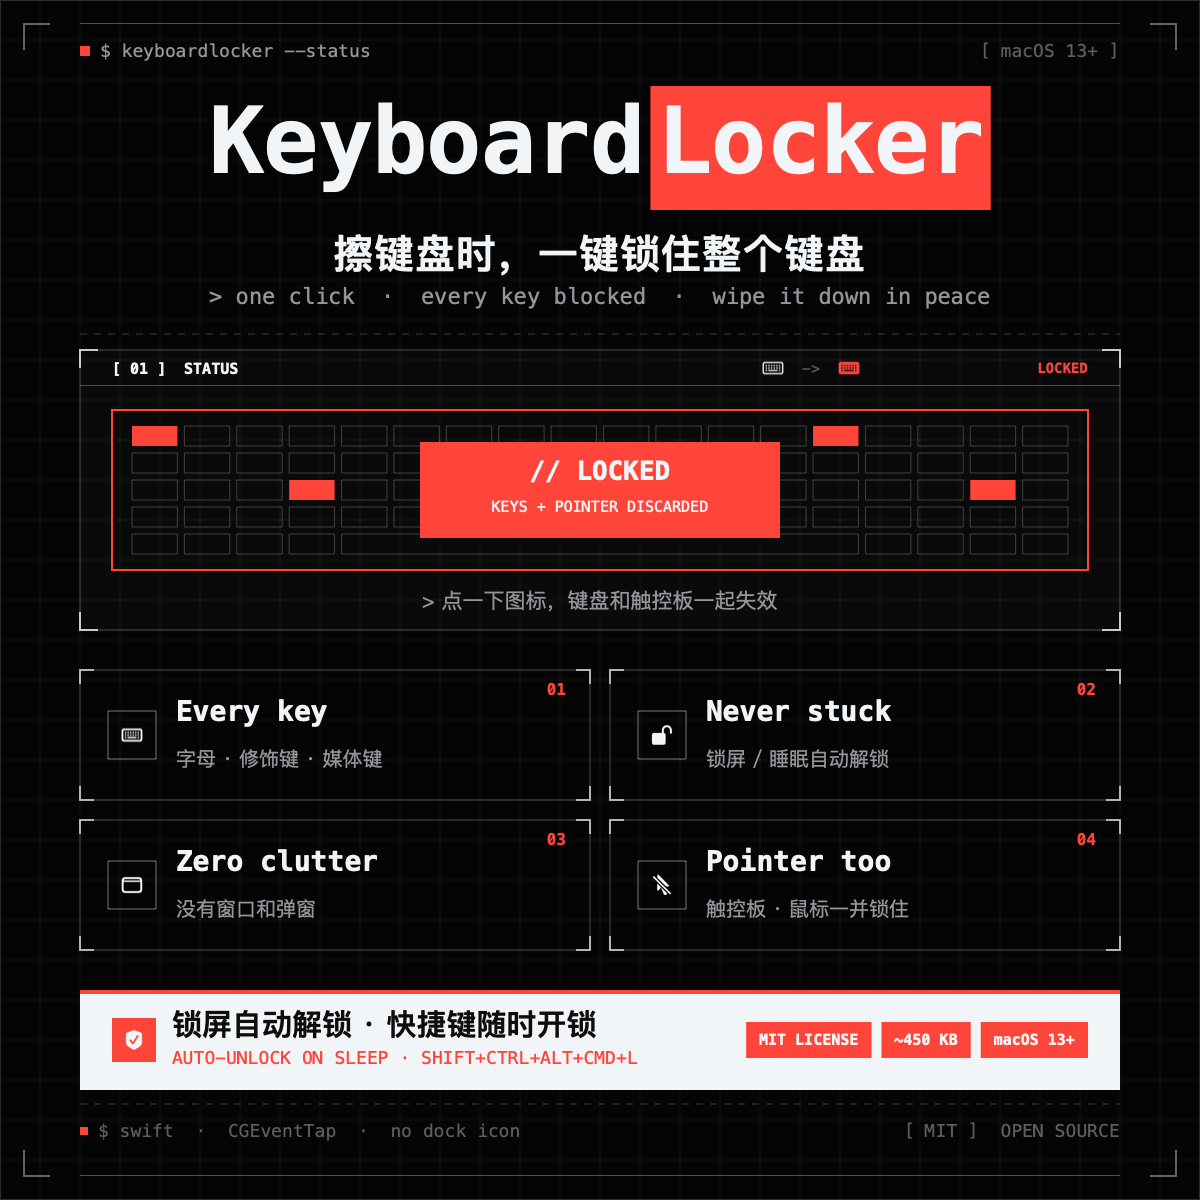
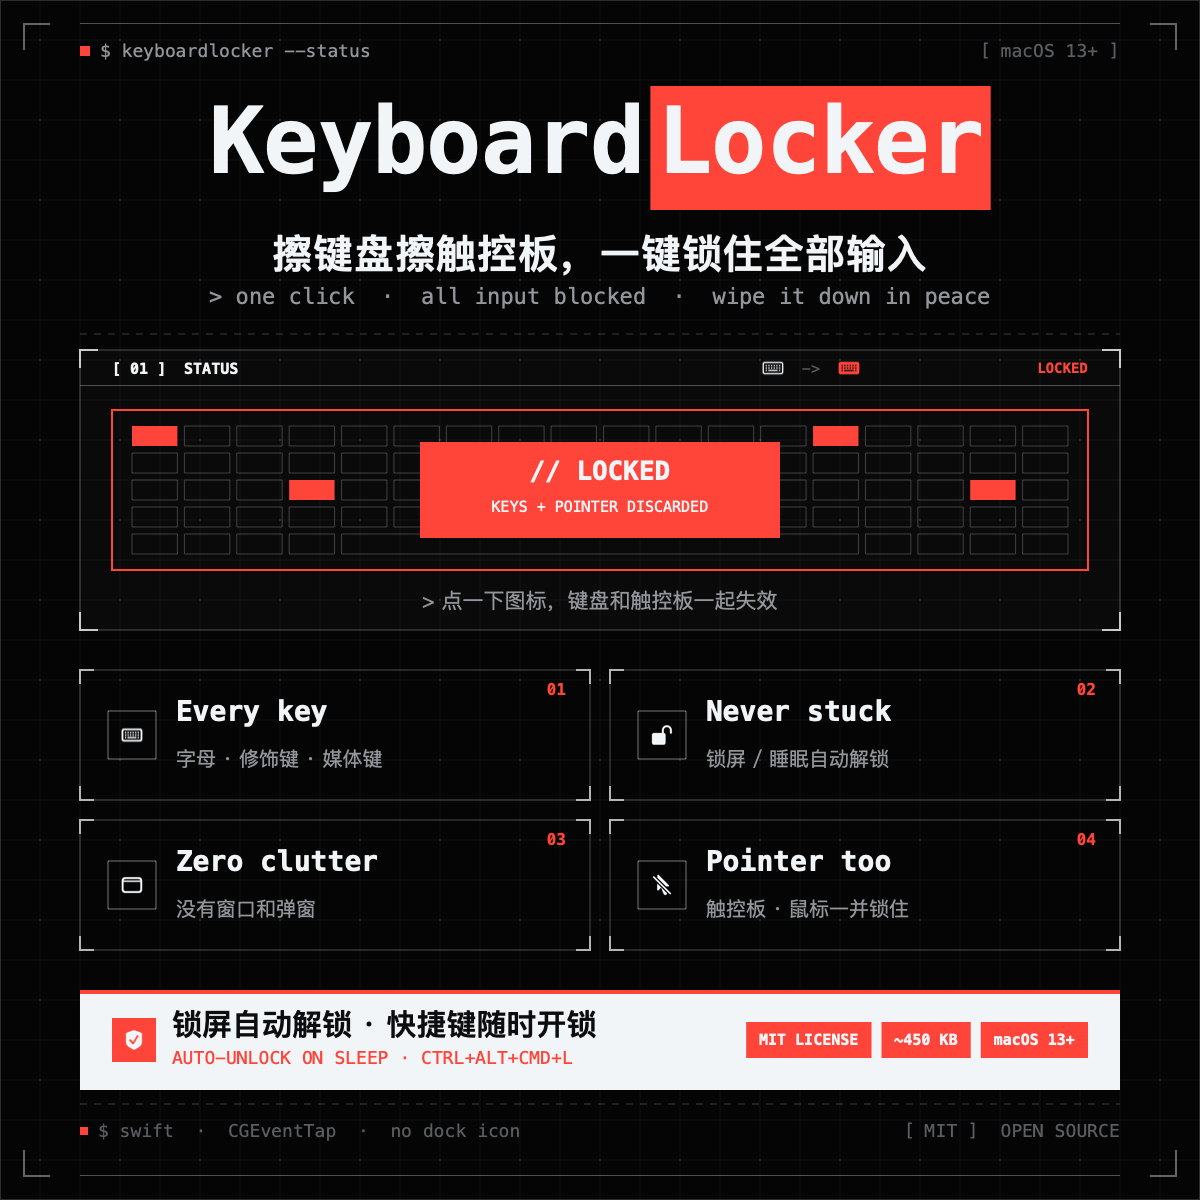
Use ctrl+option+command+L as the unlock shortcut

Changed region(s): [[0.2158, 0.185, 0.7708, 0.2775], [0.3392, 0.8633, 0.5242, 0.8942]]

diff --git a/Sources/KeyboardLockEngine.swift b/Sources/KeyboardLockEngine.swift
@@ -10,7 +10,7 @@ import Foundation
 ///   因此系统快捷键（⌘Tab、⌘Q、⌘⌥⎋ 等）同样会被拦下。
 /// - 键盘和指针一起拦：光标移动、点击、拖拽、滚轮全部吞掉，擦触控板时不会把光标甩出去、
 ///   也不会误点到别的窗口。代价是锁定期间菜单栏图标点不动，所以必须留一条纯键盘的出路。
-/// - 紧急解锁手势在吞事件之前判定：⇧⌃⌥⌘L 立刻解锁，或按住 Esc 两秒。
+/// - 紧急解锁手势在吞事件之前判定：⌃⌥⌘L 立刻解锁，或按住 Esc 两秒。
 /// - 进程退出后 tap 自动失效，输入立刻恢复 —— 这是最关键的兜底。
 final class KeyboardLockEngine {
 
@@ -39,10 +39,10 @@ final class KeyboardLockEngine {
         CGEventType(rawValue: CGEventType.RawValue($0))
     }
 
-    /// ⇧⌃⌥⌘ + L。用物理键位 37（ANSI L），与键盘布局无关。
+    /// ⌃⌥⌘ + L。用物理键位 37（ANSI L），与键盘布局无关。
     static let unlockKeyCode: CGKeyCode = 37
     static let unlockFlags: CGEventFlags = [
-        .maskShift, .maskControl, .maskAlternate, .maskCommand,
+        .maskControl, .maskAlternate, .maskCommand,
     ]
 
     /// 按住 Esc 两秒也能解锁 —— 组合键不记得时的手动挡。

diff --git a/Tools/make-promo.swift b/Tools/make-promo.swift
@@ -292,11 +292,11 @@ titleSecond.draw(with: CGRect(x: highlightRect.minX + 7, y: titleBox.minY,
                               width: secondWidth + 4, height: titleBox.height),
                  options: [.usesLineFragmentOrigin, .usesFontLeading])
 
-label("擦键盘时，一键锁住整个键盘",
+label("擦键盘擦触控板，一键锁住全部输入",
       CGRect(x: 0, y: 919, width: W, height: 55),
       size: 40, weight: .semibold, color: paper, kern: 1,
       alignment: .center, chinese: true)
-label("> one click  ·  every key blocked  ·  wipe it down in peace",
+label("> one click  ·  all input blocked  ·  wipe it down in peace",
       CGRect(x: 0, y: 880, width: W, height: 36),
       size: 22, color: gray, alignment: .center)
 dashedLine(CGPoint(x: margin, y: 866), CGPoint(x: rightEdge, y: 866))
@@ -442,7 +442,7 @@ let copyLeft = highlightIcon.maxX + 16
 label("锁屏自动解锁 · 快捷键随时开锁",
       CGRect(x: copyLeft, y: 157, width: 500, height: 40),
       size: 30, weight: .semibold, color: onWhite, chinese: true)
-label("AUTO-UNLOCK ON SLEEP · SHIFT+CTRL+ALT+CMD+L",
+label("AUTO-UNLOCK ON SLEEP · CTRL+ALT+CMD+L",
       CGRect(x: copyLeft, y: 125, width: 500, height: 28),
       size: 18, color: red)
 

diff --git a/Sources/SelfTest.swift b/Sources/SelfTest.swift
@@ -72,11 +72,10 @@ enum SelfTest {
             failures.append("光标没有被固定（移动了 \(Int(drift)) pt）")
         }
 
-        // MARK: ③ ⇧⌃⌥⌘L 解锁
-        print("[selftest] ③ 注入 ⇧⌃⌥⌘L…")
-        postFlags([.maskShift])
-        postFlags([.maskShift, .maskControl])
-        postFlags([.maskShift, .maskControl, .maskAlternate])
+        // MARK: ③ ⌃⌥⌘L 解锁
+        print("[selftest] ③ 注入 ⌃⌥⌘L…")
+        postFlags([.maskControl])
+        postFlags([.maskControl, .maskAlternate])
         postFlags(KeyboardLockEngine.unlockFlags)
         postKey(KeyboardLockEngine.unlockKeyCode, down: true,
                 flags: KeyboardLockEngine.unlockFlags)
@@ -86,7 +85,7 @@ enum SelfTest {
 
         print("[selftest]    状态: \(engine.isLocked ? "仍锁定" : "已解锁")")
         if engine.isLocked {
-            failures.append("⇧⌃⌥⌘L 没能解锁")
+            failures.append("⌃⌥⌘L 没能解锁")
         }
 
         // MARK: ④ 按住 Esc 解锁

diff --git a/Sources/AppDelegate.swift b/Sources/AppDelegate.swift
@@ -285,7 +285,7 @@ final class AppDelegate: NSObject, NSApplicationDelegate, NSMenuDelegate {
 
         // 锁定期间鼠标也失效，右键菜单打不开，所以把解锁手势直接写在菜单里
         let hintItem = NSMenuItem(
-            title: "解锁：⇧⌃⌥⌘L · 或按住 Esc 两秒",
+            title: "解锁：⌃⌥⌘L · 或按住 Esc 两秒",
             action: nil,
             keyEquivalent: ""
         )

diff --git a/README.md b/README.md
@@ -52,7 +52,7 @@ Intercepting input events requires system authorization. On first launch the app
 | --- | --- |
 | Left-click the icon | Lock (keyboard + trackpad) |
 | Right-click the icon | Menu (lock, quit) |
-| ⇧⌃⌥⌘L | Unlock |
+| ⌃⌥⌘L | Unlock |
 | Hold Esc for 2 seconds | Unlock (backup) |
 
 While locked every pointer event is dropped, including clicks on the menu bar icon, so unlocking goes through the keyboard. The shortcut uses the physical L key position, so it works on any keyboard layout.
@@ -61,7 +61,7 @@ While locked every pointer event is dropped, including clicks on the menu bar ic
 
 A lock that can't be undone is the worst possible failure mode, so there are several layers:
 
-- **Keyboard-only unlock gestures** — ⇧⌃⌥⌘L releases immediately, and holding Esc for two seconds does the same. Neither needs a mouse
+- **Keyboard-only unlock gestures** — ⌃⌥⌘L releases immediately, and holding Esc for two seconds does the same. Neither needs a mouse
 - **Process exit restores input** — the event tap dies with the process
 - **Screen lock and sleep auto-unlock** — locking the screen, display sleep, or system sleep releases input immediately, so the login password can always be typed
 - **Double detection** — a system notification plus a once-per-second session check; worst case it unlocks within a second
@@ -82,7 +82,7 @@ A lock that can't be undone is the worst possible failure mode, so there are sev
 ./build/KeyboardLocker.app/Contents/MacOS/KeyboardLocker --selftest
 ```
 
-Creates the interceptor, injects 20 synthetic keys and one pointer move, then unlocks with ⇧⌃⌥⌘L and with a held Esc. Prints `PASS` when everything works (exit code 0).
+Creates the interceptor, injects 20 synthetic keys and one pointer move, then unlocks with ⌃⌥⌘L and with a held Esc. Prints `PASS` when everything works (exit code 0).
 
 ## Releasing
 
@@ -118,7 +118,7 @@ The script bumps `CFBundleShortVersionString` / `CFBundleVersion` in a commit, r
 - `KeyboardLockEngine` installs a persistent `CGEventTap` at the `.cghidEventTap` layer — below system shortcut handling, so ⌘Tab and ⌘Q get swallowed too. The tap runs on its own thread's run loop, so a busy main thread can't miss keystrokes.
 - **Keyboard and pointer together**: the mask covers keys, mouse buttons, movement, drags, the scroll wheel and trackpad gestures, and while locked everything is `return nil` — no app receives anything.
 - **Cursor pinned in place**: dropping an event doesn't stop the window server from having already moved the cursor, so every move event that carries a delta is warped back to the lock position with `CGWarpMouseCursorPosition`. Warp-generated events carry a zero delta, which is how the "warp → new event → warp again" loop is avoided. `CGAssociateMouseAndMouseCursorPosition(0)` is deliberately not used: it's global window-server state, and a crashed process would leave the cursor frozen.
-- **Unlock gestures are checked before swallowing**: modifier state is tracked from `flagsChanged` (which is swallowed too while locked), so a `keyDown` for ⇧⌃⌥⌘ + L unlocks first and then discards the key itself.
+- **Unlock gestures are checked before swallowing**: modifier state is tracked from `flagsChanged` (which is swallowed too while locked), so a `keyDown` for ⌃⌥⌘ + L unlocks first and then discards the key itself.
 - Locking flips a mutex-protected flag rather than creating or destroying the tap: no latency, no failure path.
 - When macOS disables the tap after a callback timeout, the callback re-enables it immediately so the keyboard never quietly comes back to life.
 - The menu bar icon is a template mask tinted through CoreGraphics. The red state is baked into a bitmap before it reaches the button — a palette-tinted SF Symbol gets re-rendered by the menu bar as a template and turns white. Both states share one canvas size, otherwise `NSStatusItem` miscalculates the button width on the second toggle and the icon vanishes.

diff --git a/README.zh-CN.md b/README.zh-CN.md
@@ -2,7 +2,7 @@
 
 ![KeyboardLocker 宣传图：一键锁住整个键盘](docs/promo.png)
 
-清洁键盘和触控板时点一下菜单栏图标，键盘和指针一起失效；按 ⇧⌃⌥⌘L 立刻恢复。
+清洁键盘和触控板时点一下菜单栏图标，键盘和指针一起失效；按 ⌃⌥⌘L 立刻恢复。
 只有一个菜单栏图标，没有窗口、没有 Dock 图标、不会弹任何提示。
 
 [English](README.md)
@@ -56,17 +56,17 @@
 | --- | --- |
 | 左键点击图标 | 锁定（键盘 + 触控板） |
 | 右键点击图标 | 打开菜单（锁定、退出） |
-| ⇧⌃⌥⌘L | 解锁 |
+| ⌃⌥⌘L | 解锁 |
 | 按住 Esc 两秒 | 解锁（备用） |
 
 锁定期间指针事件全部丢弃，菜单栏图标也点不动，所以解锁走键盘手势。
-`⇧⌃⌥⌘L` 取的是物理 L 键位，换键盘布局也照样有效。
+`⌃⌥⌘L` 取的是物理 L 键位，换键盘布局也照样有效。
 
 ## 安全设计
 
 输入被锁住却解不开是这类工具最糟糕的故障，所以留了几层兜底：
 
-- **纯键盘解锁手势**：⇧⌃⌥⌘L 随按随解，按住 Esc 两秒同样可以，完全不依赖鼠标
+- **纯键盘解锁手势**：⌃⌥⌘L 随按随解，按住 Esc 两秒同样可以，完全不依赖鼠标
 - **进程结束即恢复**：event tap 跟随进程生命周期，应用退出或崩溃后输入立刻恢复正常
 - **锁屏 / 睡眠自动解锁**：屏幕锁定、显示器睡眠、系统休眠时立即解锁，保证回来能输入登录密码
 - **锁屏检测双保险**：除了系统锁屏通知，锁定期间每秒还会查一次会话状态做兜底，最坏 1 秒内一定解锁
@@ -89,7 +89,7 @@
 ./build/KeyboardLocker.app/Contents/MacOS/KeyboardLocker --selftest
 ```
 
-它会创建拦截器、注入 20 个模拟按键和一次指针移动，再用 ⇧⌃⌥⌘L 与按住 Esc 分别验证解锁，
+它会创建拦截器、注入 20 个模拟按键和一次指针移动，再用 ⌃⌥⌘L 与按住 Esc 分别验证解锁，
 输出 `PASS` 表示全部通过（退出码 0）。
 
 ## 发布新版本
@@ -135,7 +135,7 @@
   否则「Warp → 新事件 → 又 Warp」会变成每秒两百次的空转。
   不用 `CGAssociateMouseAndMouseCursorPosition(0)`：那是窗口服务器的全局状态，进程异常退出会把光标留在冻住的状态。
 - **解锁手势在吞事件之前判定**：修饰键状态由 `flagsChanged` 自己记一份（锁定期间它同样被吞），
-  `keyDown` 命中 ⇧⌃⌥⌘ + L 就先解除锁定再吞掉这个按键。
+  `keyDown` 命中 ⌃⌥⌘ + L 就先解除锁定再吞掉这个按键。
 - 锁定 / 解锁只翻转一个带锁的标志位，不创建、不销毁 tap，切换没有延迟也不会失败。
 - 系统在回调超时时会临时禁用 tap，回调里会立即重新启用，避免键盘「悄悄解锁」。
 - 菜单栏图标用 template 蒙版 + CoreGraphics 染色，锁定时把键盘符号烧成红色位图再交给按钮

diff --git a/CHANGELOG.md b/CHANGELOG.md
@@ -3,7 +3,7 @@
 ## Unreleased
 
 - **Trackpad and mouse are locked too**: movement, clicks, drags, scrolling and trackpad gestures are dropped, and the cursor is pinned at the position it had when locking
-- **Unlock shortcut** ⇧⌃⌥⌘L, plus holding Esc for two seconds as a backup — the only way out now that the pointer is inert
+- **Unlock shortcut** ⌃⌥⌘L, plus holding Esc for two seconds as a backup — the only way out now that the pointer is inert
 - Menu shows the unlock shortcut so it can't be forgotten
 - `--selftest` also verifies pointer blocking and both unlock gestures
 - `release.sh`: one-command publishing — version bump, changelog-based notes, build, tag and GitHub Release
